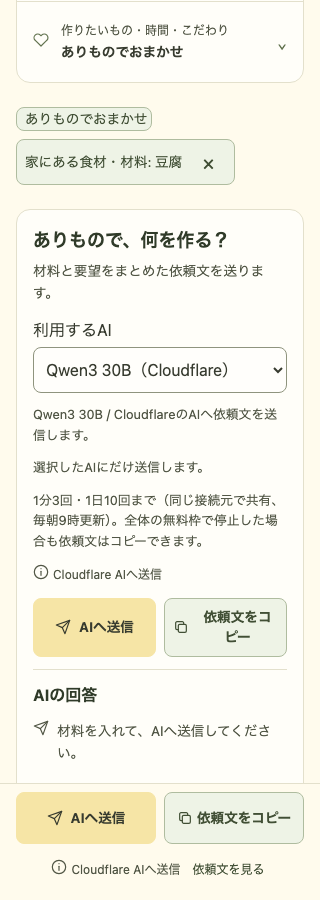
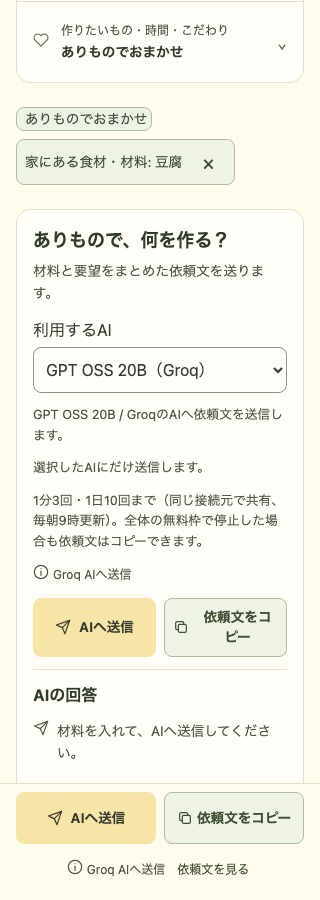
fix: handle model reasoning budgets and truncated answers

diff --git a/tests/unit/ai-model-api.test.ts b/tests/unit/ai-model-api.test.ts
@@ -88,22 +88,50 @@ describe("model selection and enforced usage", () => {
     expect(env.AI.run).not.toHaveBeenCalled();
   });
 
-  test.each(["@cf/qwen/qwen3-30b-a3b-fp8", "@cf/google/gemma-4-26b-a4b-it"])(
+  test.each(["@cf/meta/llama-3.3-70b-instruct-fp8-fast", "@cf/google/gemma-4-26b-a4b-it"])(
     "selected model %s uses its own capped output field",
     async (model) => {
       const env = environment();
-      vi.mocked(env.AI.run).mockResolvedValue({
-        choices: [{ message: { content: "選択モデルの料理" } }],
-      });
+      vi.mocked(env.AI.run).mockResolvedValue(
+        model.includes("gemma")
+          ? { choices: [{ finish_reason: "stop", message: { content: "選択モデルの料理" } }] }
+          : { response: "選択モデルの料理" },
+      );
       const response = await onRequest({ request: request(model), env });
       expect(response.status).toBe(200);
       expect(await response.json()).toMatchObject({ recipe: "選択モデルの料理", model });
       expect(env.AI.run).toHaveBeenCalledWith(
         model,
         expect.objectContaining(
-          model.includes("gemma") ? { max_completion_tokens: 1400 } : { max_tokens: 1400 },
+          model.includes("gemma")
+            ? { max_completion_tokens: 1400, chat_template_kwargs: { enable_thinking: false } }
+            : { max_tokens: 1400 },
         ),
       );
+    },
+  );
+
+  test.each(["cloudflare", "groq"])(
+    "%s does not present an answer cut off at the token limit as a recipe",
+    async (provider) => {
+      const env = environment();
+      const payload = {
+        choices: [{ finish_reason: "length", message: { content: "途中で切れた料理手順" } }],
+      };
+      vi.mocked(env.AI.run).mockResolvedValue(payload);
+      env.GROQ_API_KEY = "unit-test-key";
+      env.GROQ_FREE_ONLY = "true";
+      const fetcher = vi.fn(async () => Response.json(payload));
+      vi.stubGlobal("fetch", fetcher);
+      const response = await onRequest({
+        request: request(
+          provider === "groq" ? "openai/gpt-oss-20b" : "@cf/google/gemma-4-26b-a4b-it",
+        ),
+        env,
+      });
+      expect(response.status).toBe(500);
+      expect(await response.text()).not.toContain("途中で切れた料理手順");
+      expect(provider === "groq" ? fetcher : env.AI.run).toHaveBeenCalledTimes(1);
     },
   );
 
@@ -111,7 +139,10 @@ describe("model selection and enforced usage", () => {
     const env = environment();
     for (let i = 0; i < 3; i += 1)
       expect((await onRequest({ request: request(), env })).status).toBe(200);
-    const response = await onRequest({ request: request("@cf/qwen/qwen3-30b-a3b-fp8"), env });
+    const response = await onRequest({
+      request: request("@cf/meta/llama-3.3-70b-instruct-fp8-fast"),
+      env,
+    });
     expect(response.status).toBe(429);
     expect(response.headers.get("retry-after")).toBe("60");
     expect(env.AI.run).toHaveBeenCalledTimes(3);

diff --git a/tests/unit/recipe-application.test.ts b/tests/unit/recipe-application.test.ts
@@ -21,18 +21,18 @@ describe("recipe application without a browser", () => {
     app.commitInput("materials", "豆腐");
     const prompt = app.getSnapshot().prompt;
     const first = app.send();
-    app.setAiModel("@cf/qwen/qwen3-30b-a3b-fp8");
+    app.setAiModel("@cf/meta/llama-3.3-70b-instruct-fp8-fast");
     expect(requests[0]?.signal.aborted).toBe(true);
     requests[0]?.finish({ ok: true, recipe: "古い回答", model: "old", usage: null });
     await first;
     expect(app.getSnapshot().aiPrompt.status).toBe("idle");
     const second = app.send();
-    expect(requests[1]?.model).toBe("@cf/qwen/qwen3-30b-a3b-fp8");
+    expect(requests[1]?.model).toBe("@cf/meta/llama-3.3-70b-instruct-fp8-fast");
     requests[1]?.finish({ ok: true, recipe: "新しい回答", model: "new", usage: null });
     await second;
     expect(app.getSnapshot().prompt).toBe(prompt);
     app.setAvailableAiModels(["openai/gpt-oss-20b"]);
-    expect(app.getSnapshot().selectedAiModel).toBe("@cf/qwen/qwen3-30b-a3b-fp8");
+    expect(app.getSnapshot().selectedAiModel).toBe("@cf/meta/llama-3.3-70b-instruct-fp8-fast");
     await app.send();
     expect(requests).toHaveLength(2);
     expect(app.getSnapshot().aiPrompt.status).toBe("error");

diff --git a/server/ai-provider.ts b/server/ai-provider.ts
@@ -108,6 +108,7 @@ export async function generateWithModel(
       { role: "user", content: prompt },
     ],
     [policy.outputParameter]: aiMaxOutputTokens,
+    ...(policy.chatTemplateKwargs ? { chat_template_kwargs: policy.chatTemplateKwargs } : {}),
     temperature: 0.4,
   };
   if (model.provider === "cloudflare") return env.AI.run(model.id, input);
@@ -142,15 +143,7 @@ export async function generateWithModel(
     }
     const payload: unknown = JSON.parse(text + decoder.decode());
     if (typeof payload !== "object" || payload === null) throw new Error("Invalid AI response");
-    const choices = "choices" in payload && Array.isArray(payload.choices) ? payload.choices : [];
-    const first: unknown = choices[0];
-    const message: unknown =
-      typeof first === "object" && first !== null && "message" in first ? first.message : null;
-    const content =
-      typeof message === "object" && message !== null && "content" in message
-        ? message.content
-        : null;
-    return { response: content, usage: "usage" in payload ? payload.usage : null };
+    return payload;
   } finally {
     reader.releaseLock();
   }

diff --git a/server/ai-model-policy.ts b/server/ai-model-policy.ts
@@ -7,6 +7,7 @@ export const aiModelPolicies: Record<
     inputNeuronsPerMillion: number;
     outputNeuronsPerMillion: number;
     outputParameter: "max_tokens" | "max_completion_tokens";
+    chatTemplateKwargs?: { enable_thinking: false };
   }
 > = {
   "@cf/meta/llama-3.1-8b-instruct-fp8": {
@@ -15,10 +16,10 @@ export const aiModelPolicies: Record<
     outputNeuronsPerMillion: 26128,
     outputParameter: "max_tokens",
   },
-  "@cf/qwen/qwen3-30b-a3b-fp8": {
-    contextTokens: 32768,
-    inputNeuronsPerMillion: 4625,
-    outputNeuronsPerMillion: 30475,
+  "@cf/meta/llama-3.3-70b-instruct-fp8-fast": {
+    contextTokens: 24000,
+    inputNeuronsPerMillion: 26668,
+    outputNeuronsPerMillion: 204805,
     outputParameter: "max_tokens",
   },
   "@cf/google/gemma-4-26b-a4b-it": {
@@ -26,6 +27,7 @@ export const aiModelPolicies: Record<
     inputNeuronsPerMillion: 9091,
     outputNeuronsPerMillion: 27273,
     outputParameter: "max_completion_tokens",
+    chatTemplateKwargs: { enable_thinking: false },
   },
   "openai/gpt-oss-20b": {
     contextTokens: 131072,

diff --git a/functions/api/recipe.ts b/functions/api/recipe.ts
@@ -201,6 +201,10 @@ function extractRecipeText(result: unknown): string {
     return "";
   }
 
+  const choices = result["choices"];
+  const first: unknown = Array.isArray(choices) ? choices[0] : null;
+  if (isRecord(first) && first["finish_reason"] === "length") return "";
+
   const output = result as WorkersAiTextResult;
   if (typeof output.response === "string") {
     return output.response;
@@ -212,8 +216,6 @@ function extractRecipeText(result: unknown): string {
     return output.result;
   }
 
-  const choices = result["choices"];
-  const first: unknown = Array.isArray(choices) ? choices[0] : null;
   const message = isRecord(first) ? first["message"] : null;
   if (isRecord(message) && typeof message["content"] === "string") return message["content"];
 

diff --git a/tests/unit/ai-prompt-client.test.ts b/tests/unit/ai-prompt-client.test.ts
@@ -36,12 +36,19 @@ describe("generateRecipeFromPrompt", () => {
       expect(input).toBe("/api/recipe");
       expect(JSON.parse(String(init?.body))).toEqual({
         prompt,
-        model: "@cf/qwen/qwen3-30b-a3b-fp8",
+        model: "@cf/meta/llama-3.3-70b-instruct-fp8-fast",
       });
       return jsonResponse(success);
     });
     expect(
-      (await generateRecipeFromPrompt(prompt, fetcher, undefined, "@cf/qwen/qwen3-30b-a3b-fp8")).ok,
+      (
+        await generateRecipeFromPrompt(
+          prompt,
+          fetcher,
+          undefined,
+          "@cf/meta/llama-3.3-70b-instruct-fp8-fast",
+        )
+      ).ok,
     ).toBe(true);
   });
 

diff --git a/src/ai-models.ts b/src/ai-models.ts
@@ -6,8 +6,8 @@ export const aiModels = [
     recipient: "CloudflareのAI",
   },
   {
-    id: "@cf/qwen/qwen3-30b-a3b-fp8",
-    label: "Qwen3 30B",
+    id: "@cf/meta/llama-3.3-70b-instruct-fp8-fast",
+    label: "Llama 3.3 70B",
     provider: "cloudflare",
     recipient: "CloudflareのAI",
   },

diff --git a/docs/testing/ai-model-verification.md b/docs/testing/ai-model-verification.md
@@ -8,7 +8,7 @@
 | コマンド | 終了コード | 関連結果 |
 | --- | --- | --- |
 | `CI=1 ASDF_NODEJS_VERSION=26.4.0 npm run check` | 0 | format、lint、typecheck、build、unit、structure、E2Eの全段階を実行 |
-| 同コマンド内の`npm run test:e2e` | 0 | 580 passed、0 failed、0 skipped、0 flaky、156.5秒 |
+| 同コマンド内の`npm run test:e2e` | 0 | 580 passed、0 failed、0 skipped、0 flaky、159.6秒 |
 | `ASDF_NODEJS_VERSION=26.4.0 npm run audit:dependencies` | 0 | found 0 vulnerabilities |
 | `ASDF_NODEJS_VERSION=24.18.0 npm run format:check` | 0 | 別のサポート対象Nodeでも整形・Markdown・YAML検査が成功 |
 | 同Nodeの`npm run test:unit`と`npm run test:structure` | 各0 | SQLiteを含む単体テストと構造検査が成功 |
@@ -21,7 +21,7 @@ SQLiteで実migrationと同じ予約SQLを実行し、複数上限の原子的ro
 日付更新、IPv6 /64、秘密情報・信頼ヘッダー不足、失敗時の予約保持を確認する。
 62,500のlifetime予約テストは任意のテスト単位であり、実際のクレジット換算・API利用の証明ではない。
 
-最終ログはローカルの`/tmp/arimono-ai-final-check-2.log`、
+最終ログはローカルの`/tmp/arimono-ai-final-check-3.log`、
 機械可読結果は生成物の`playwright-report/results.json`。CIでも後者をartifactとして保存する。
 
 ## レビューと修正
@@ -35,6 +35,7 @@ SQLiteで実migrationと同じ予約SQLを実行し、複数上限の原子的ro
 - 人数stepperの「selectなし」検査を人数パネル内に限定し、追加したモデルselectと区別する。
 - Safari系のnative selectが23pxになる問題を、明示的な46pxの高さ指定で修正する。6環境で44px以上の操作領域を検証する。
 - 現行Cloudflareの`choices[].message.content`形式を受け取り、返すusageは数値の既知項目に限定する。
+- Qwen3を非推論のLlama 3.3へ置換し、Gemmaの正式なthinking=falseを明示する。Groqはlowでも推論予算を使うため、本文が空・finish_reason=lengthなら失敗とする。Cloudflare/Groqのchoices形式の中断応答テストは修正前exit 1、修正後exit 0。終了理由のないnative応答の中断検知は保証しない。
 
 最後の静的レビューでは、送信前予約・Free設定の必須化・秘密情報・古い応答の破棄について追加の修正必須事項はなかった。
 
